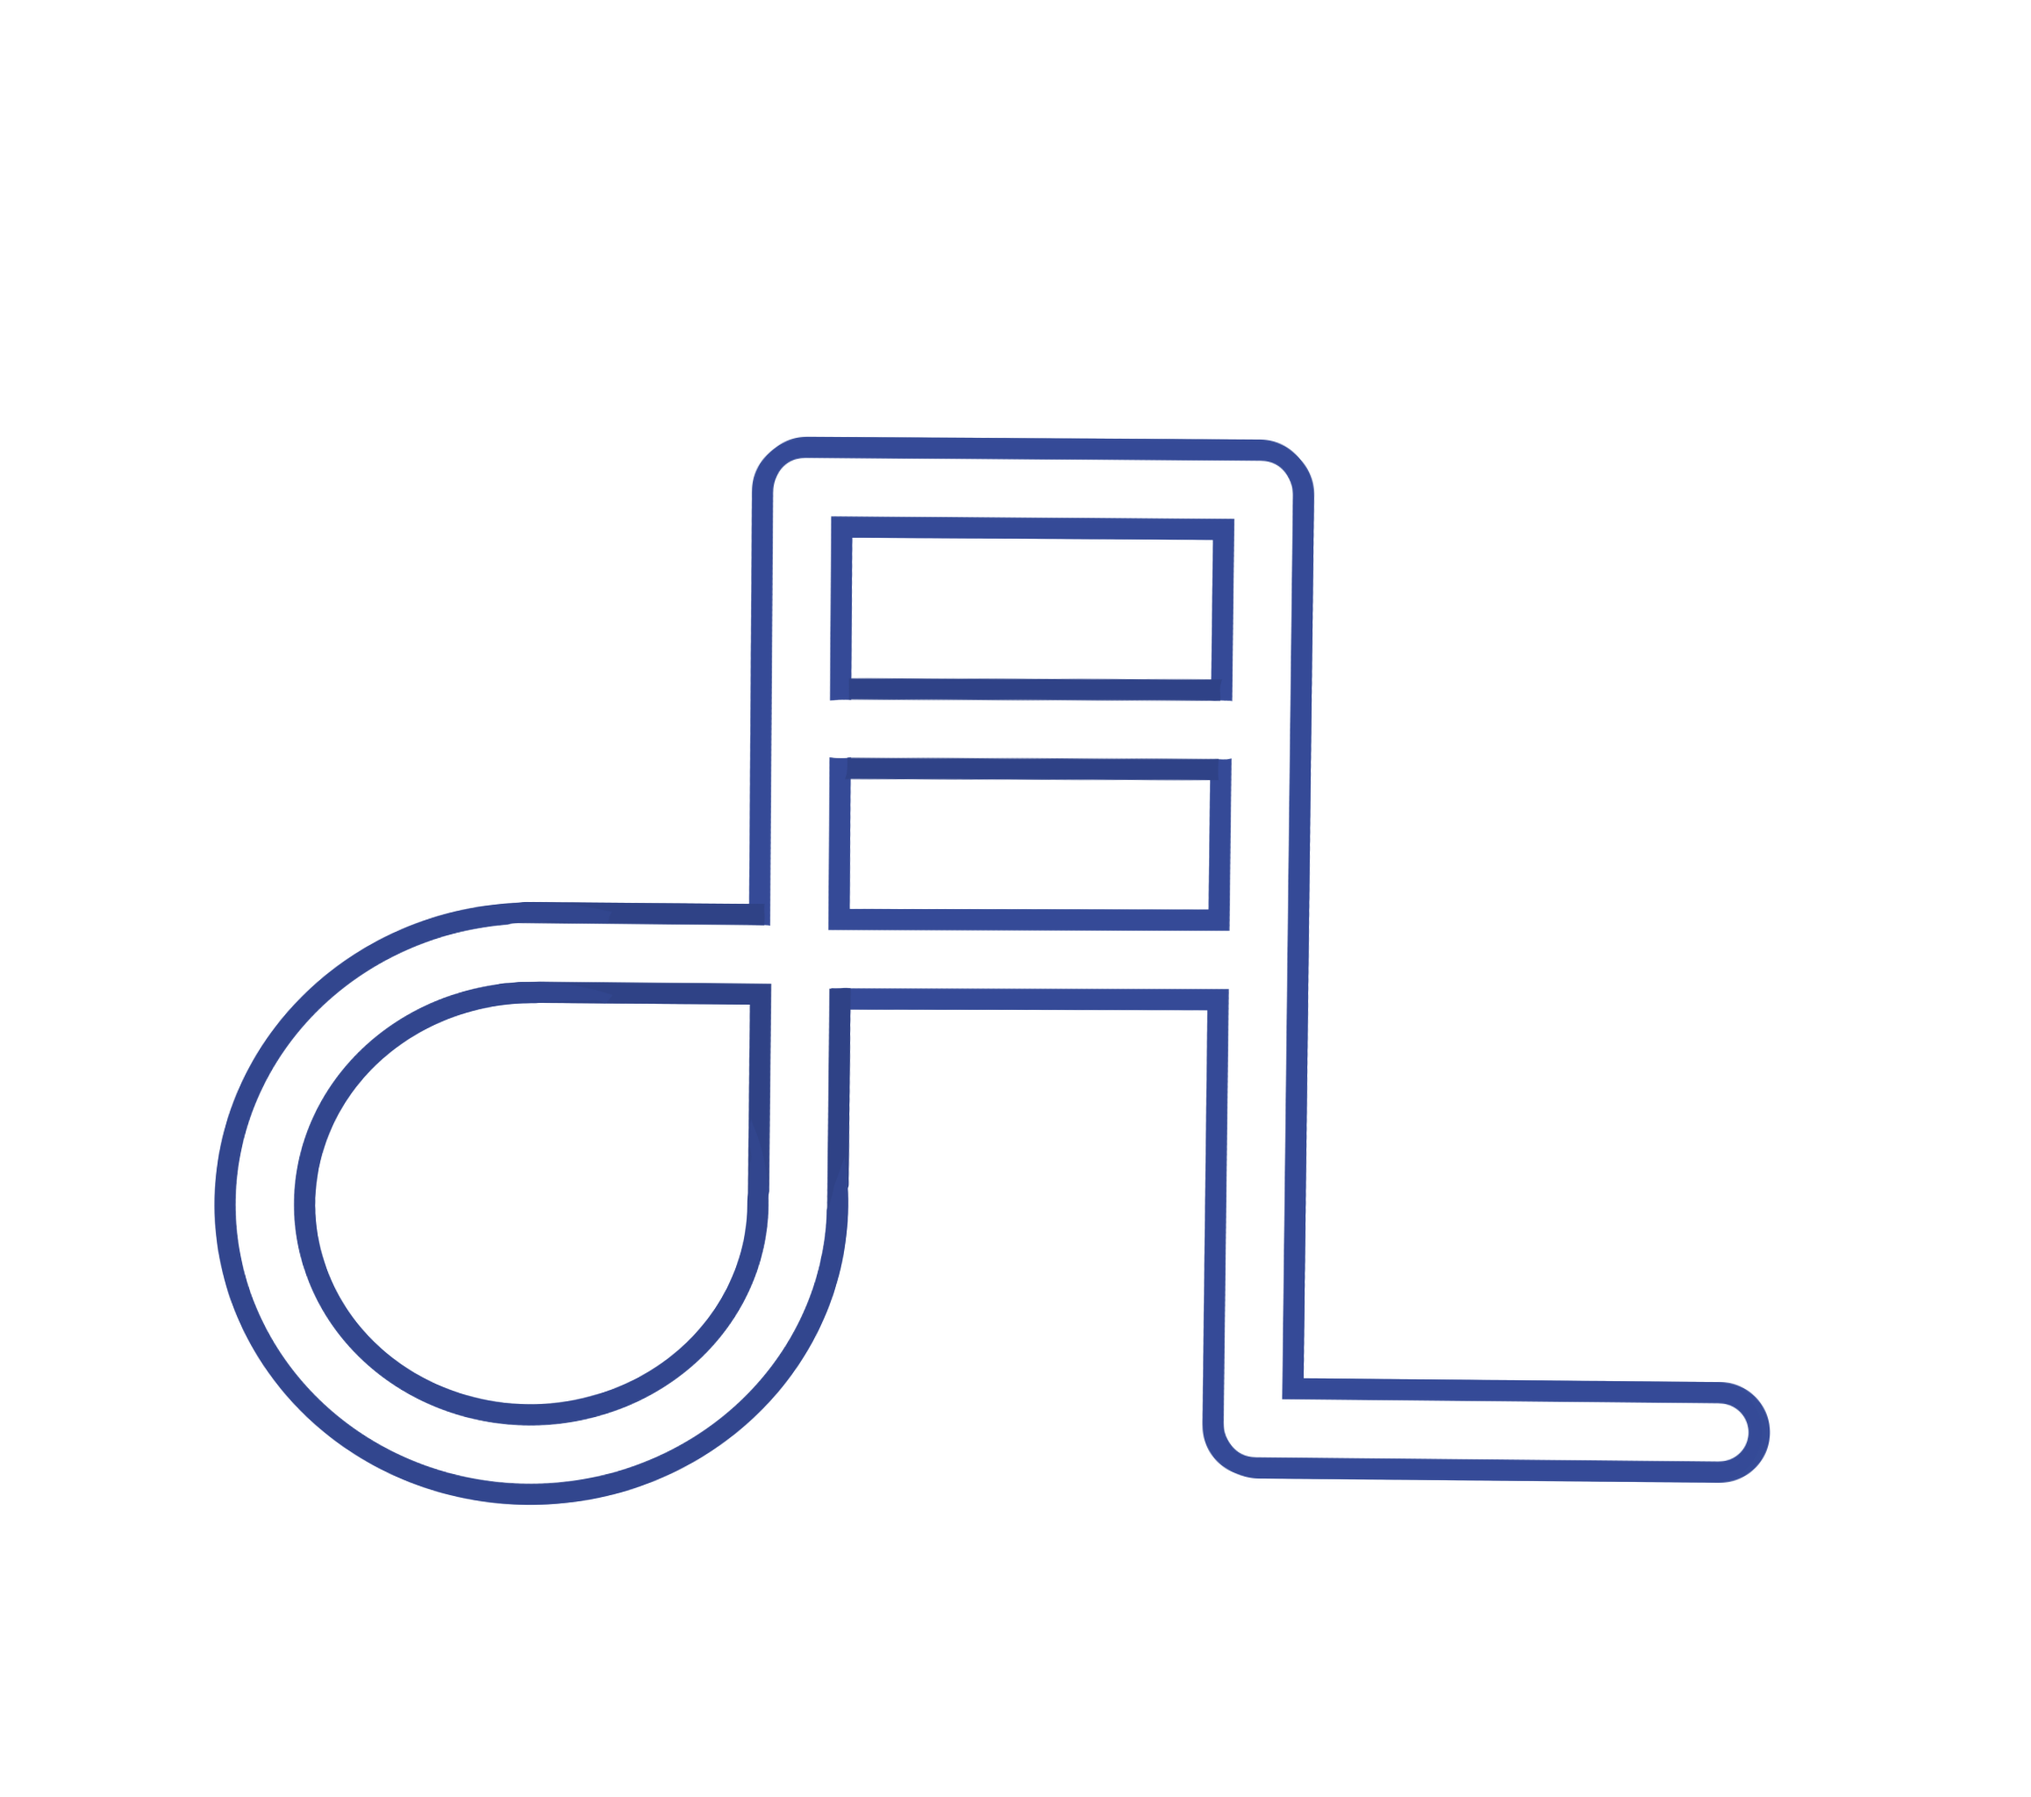
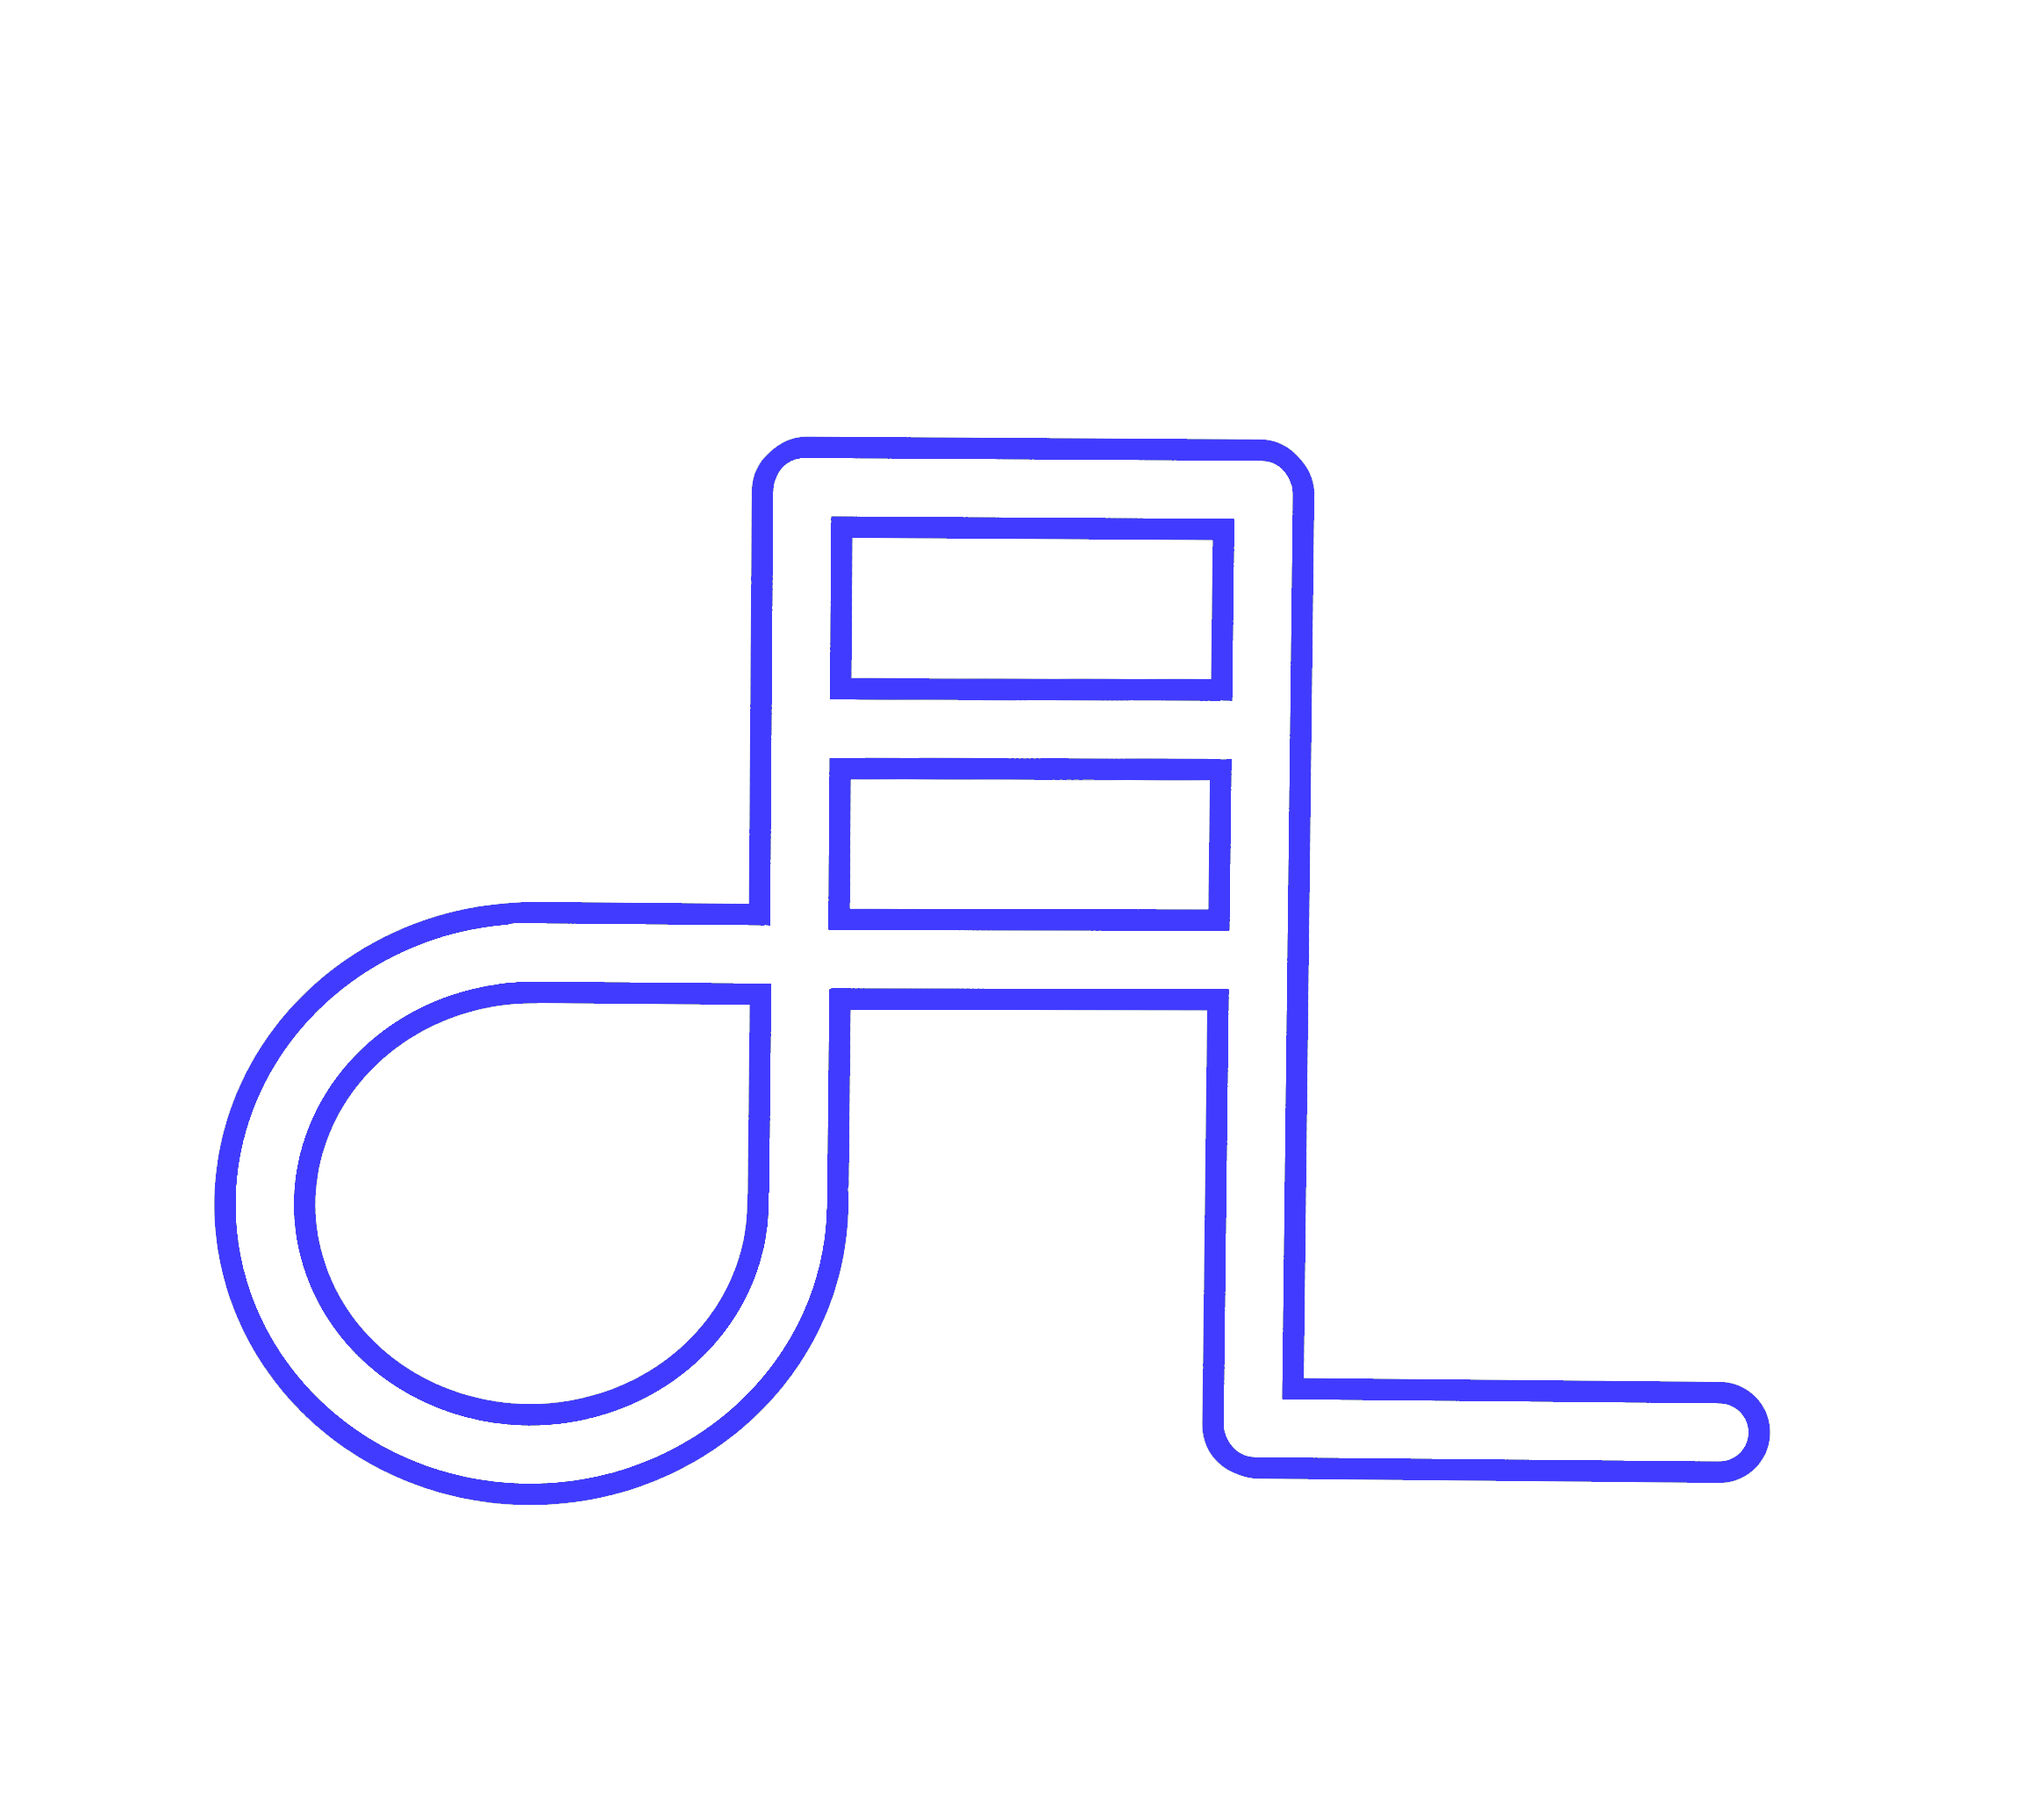
Updated the script
Changing the About window (link to the repository instead of the explanation) and changing the icon for the program.

Changed region(s): [[0.0933, 0.2188, 0.8708, 0.8438]]

diff --git a/deepLuna.py b/deepLuna.py
@@ -6,6 +6,7 @@ except ImportError:
     import tkinter as tk
 from tkinter.filedialog import askopenfilename, asksaveasfile
 from tkinter.ttk import *
+import webbrowser
 try:
     import subprocess
 except ImportError:
@@ -282,14 +283,17 @@ class Informations:
         self.informations = information
 
         information.title("deepLuna — About")
-        information.geometry("500x350")
+        information.geometry("400x150")
         information.resizable(height=False, width=False)
 
-        self.nom = tk.Label(information, text ="deepLuna version 0.1 — 8/2021\nDevelopped by Tsukihimates\n", justify=tk.CENTER, borderwidth=10)
+        self.nom = tk.Label(information, text ="deepLuna version 1 — 1/9/2021\nDevelopped by Tsukihimates\n", justify=tk.CENTER, borderwidth=10)
         self.nom.pack()
 
-        self.explanations = tk.Label(information, text="LAUNCHING INSTRUCTIONS\n1/Place the script_text.mrg file in the same folder as deepLuna.py\n2/Launch deepLuna.py and choose \"Extract text\" upon launching.\n3/When extraction is done, the main windows opens\n4/When launching the next time deepLuna, just click on \"Open translation\"\n\nEDITING INSTRUCTIONS\n-Choose an offset in the scrolling list (DOUBLE-CLICK on it),\nadd your translation of the \"Original text\" in the\n \"Translated text\" field, and validate\n-Click on \"Save\" to save your translation\n-If you want to search for some text, click on \"Search\"\nYou can also replace directly text (only translated text, not original)")
+        self.explanations = tk.Button(information, text="https://github.com/Hakanaou/deepLuna", command=self.callback)
         self.explanations.pack()
+
+    def callback(self):
+        webbrowser.open_new("https://github.com/Hakanaou/deepLuna")
 
 
 class MainWindow:
@@ -773,6 +777,7 @@ class MainWindow:
         self.expected_time = tk.StringVar()
         self.expected_time.set('0:00:00')
 
+
         self.set_translation_frame = tk.Frame(self.translation, borderwidth=10)
 
         self.deepl_api_message = tk.Label(self.set_translation_frame, text="deepL API link:")
@@ -825,6 +830,21 @@ class MainWindow:
         self.remaining_time.grid(row=0,column=1,pady=10)
 
         self.time_frame.grid(row=2,column=0,pady=10)
+
+        self.translation.protocol("WM_DELETE_WINDOW", self.closing_translation_window)
+
+    def closing_translation_window(self):
+
+        #global search_window_open
+        #global searchResults
+        #global posSearch
+
+        self.translation.grab_release()
+        self.translation.destroy()
+        self.dl_editor.grab_set()
+        #search_window_open = False
+        #searchResults = []
+        #posSearch = 0
 
 
     def translate_game(self):
